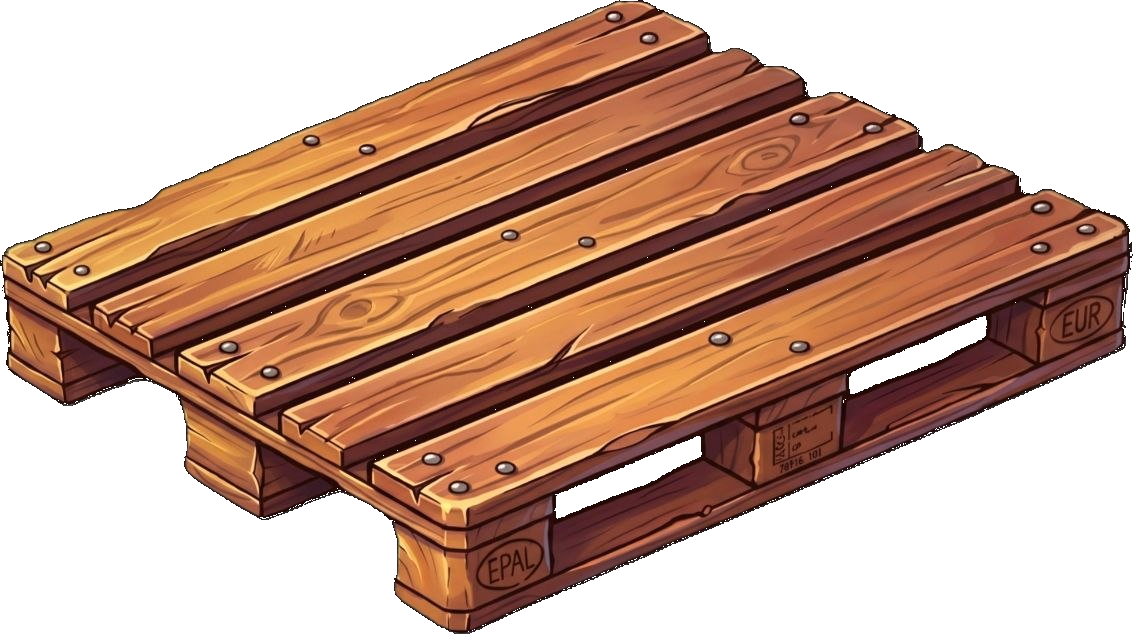
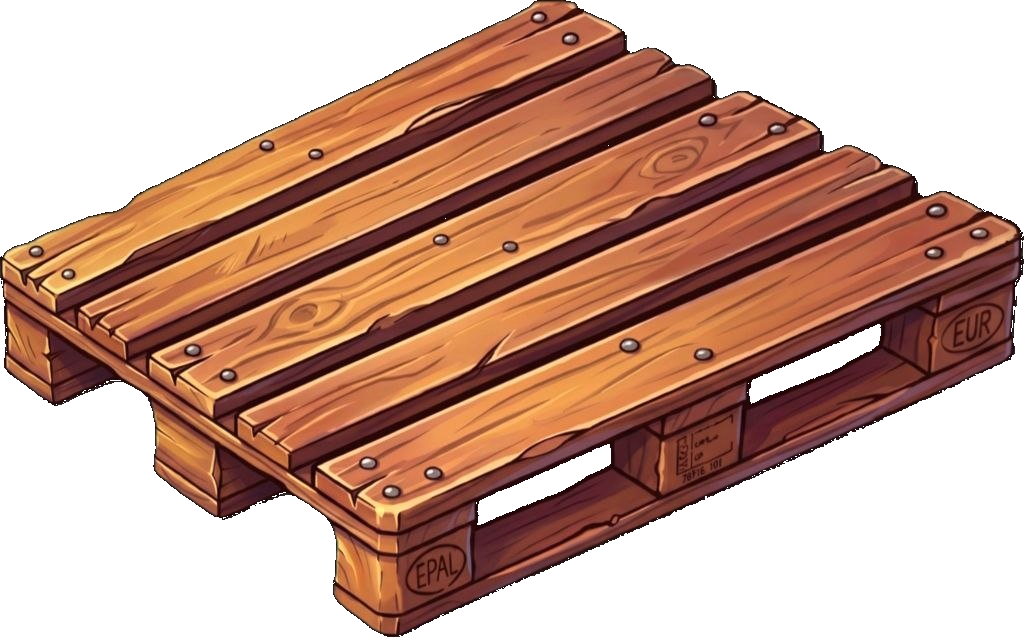
Replace pallet sprite with latest art (v164).

diff --git a/02-sklad/index.html b/02-sklad/index.html
@@ -8,9 +8,9 @@
     <title>Склад</title>
     <meta name="theme-color" content="#14110d" />
     <meta name="apple-mobile-web-app-capable" content="yes" />
-    <link rel="manifest" href="manifest.json?v=163" />
+    <link rel="manifest" href="manifest.json?v=164" />
     <link rel="icon" href="../icon.svg" type="image/svg+xml" />
-    <link rel="stylesheet" href="style.css?v=163" />
+    <link rel="stylesheet" href="style.css?v=164" />
   </head>
   <body>
     <div class="scene" aria-hidden="true">
@@ -216,6 +216,6 @@
       </div>
     </div>
 
-    <script src="game.js?v=163"></script>
+    <script src="game.js?v=164"></script>
   </body>
 </html>

diff --git a/02-sklad/game.js b/02-sklad/game.js
@@ -1116,8 +1116,8 @@ function palWood(name) {
   );
 }
 
-const EMPTY_PAL = "art/pal-empty.png?v=163";
-const YARD_PIC = "art/yard.jpg?v=163";
+const EMPTY_PAL = "art/pal-empty.png?v=164";
+const YARD_PIC = "art/yard.jpg?v=164";
 const ART_URLS = [
   YARD_PIC,
   EMPTY_PAL,

diff --git a/02-sklad/style.css b/02-sklad/style.css
@@ -4294,7 +4294,7 @@ body.iso-yard .inside.yard-locked {
 
 body.iso-yard .inside-pic {
   background:
-    url("art/yard.jpg?v=163") center center / 100% 100% no-repeat,
+    url("art/yard.jpg?v=164") center center / 100% 100% no-repeat,
     #c4b48c;
 }
 
